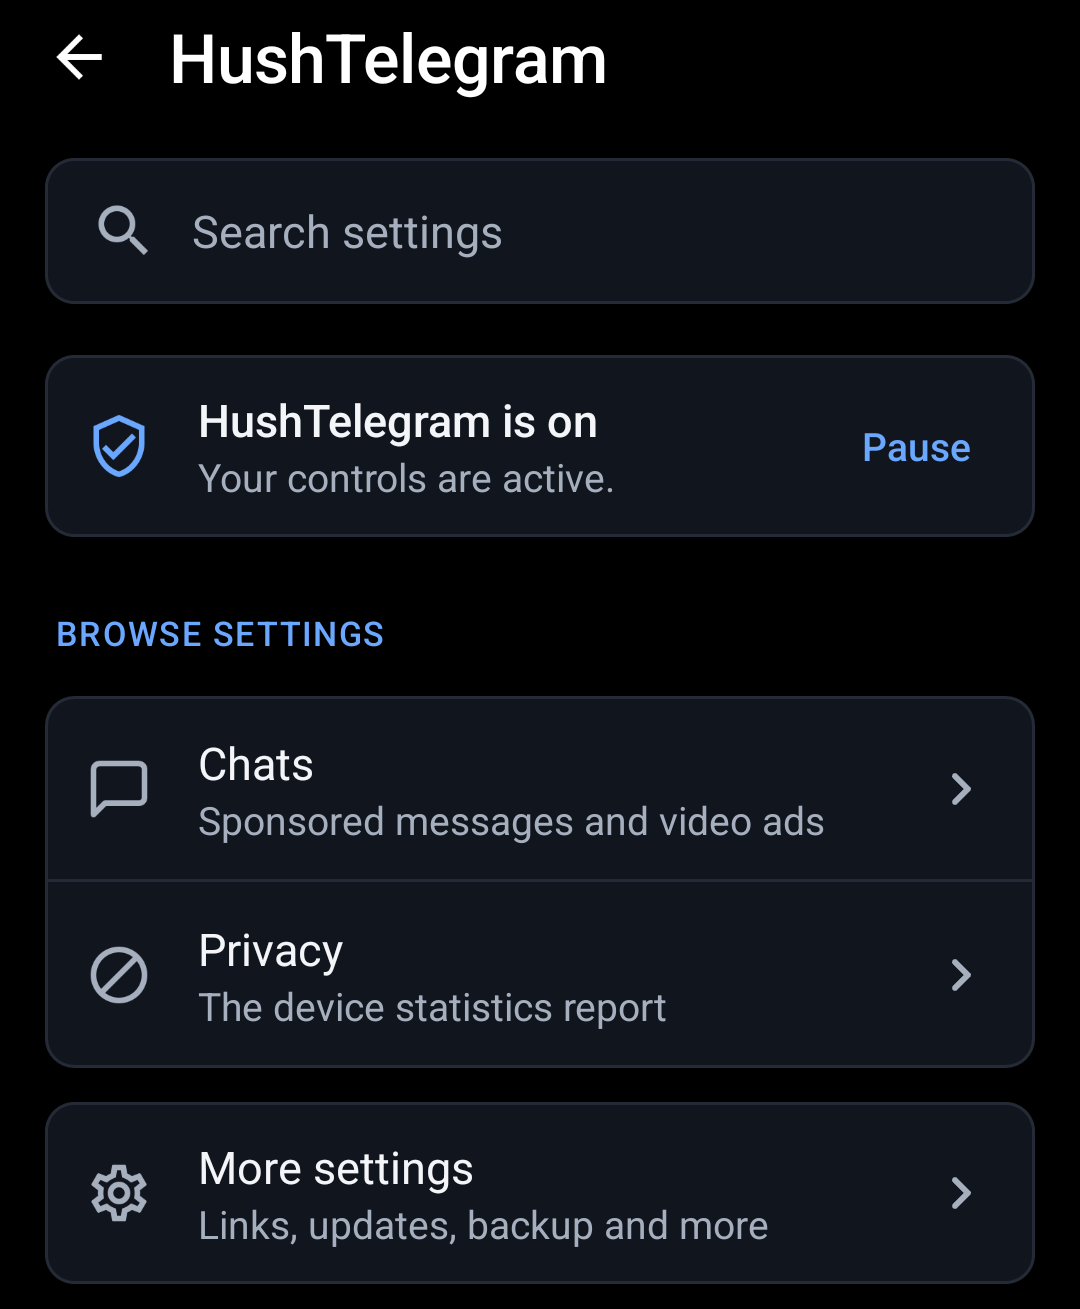
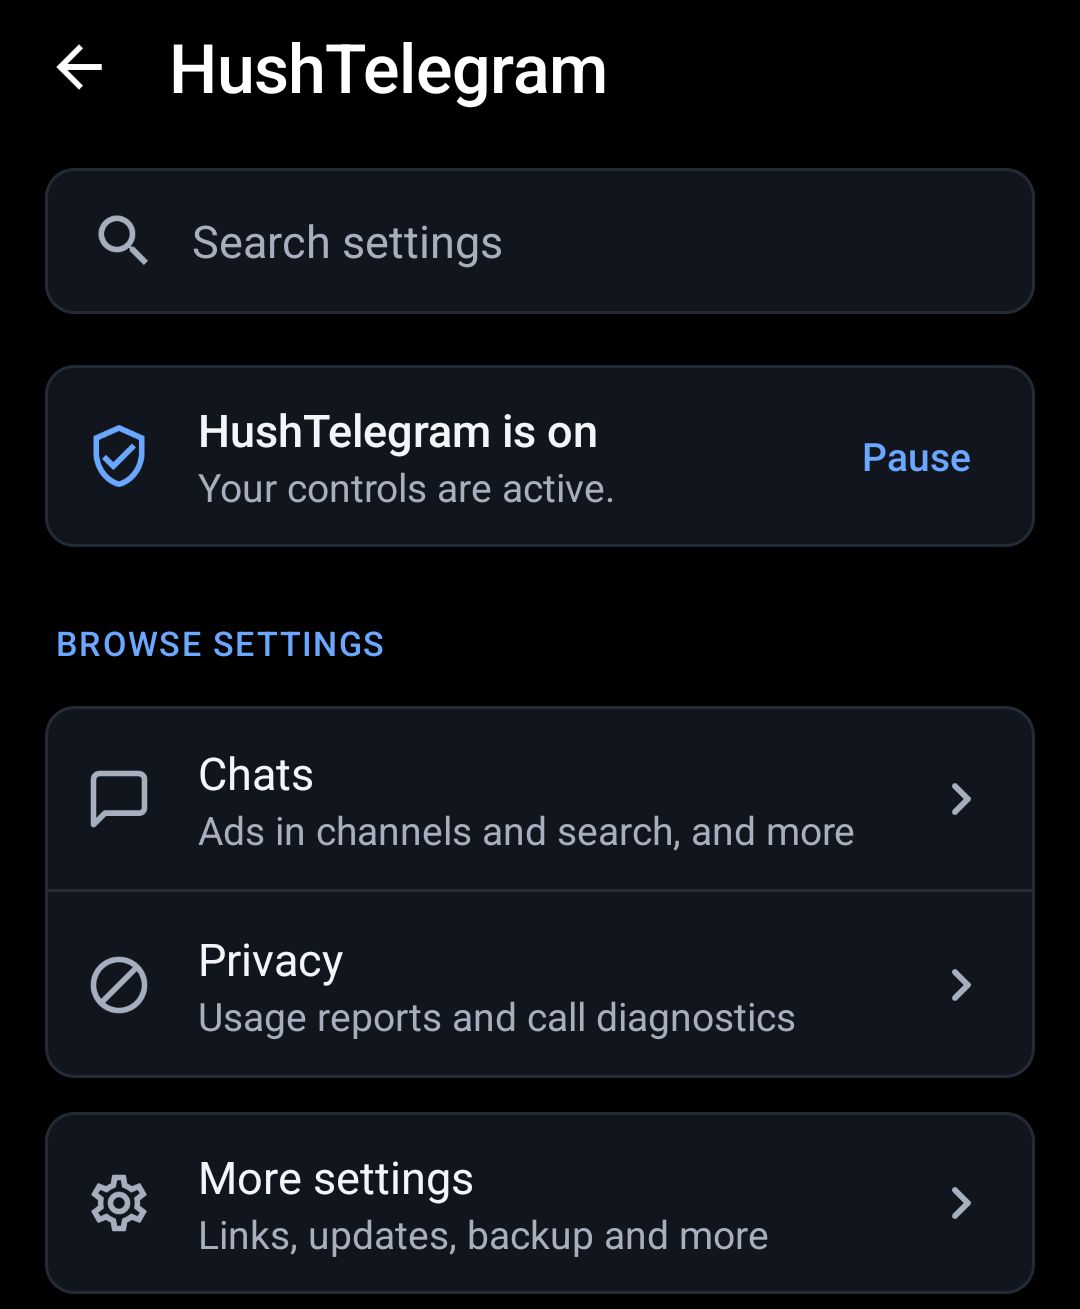
docs: recapture the settings screenshots from the current build
The home summaries changed and the Chats page now groups its switches,
so the saved images no longer matched what the app shows. Both were
taken on a physical phone in AMOLED dark at normal text.

diff --git a/CHANGELOG.md b/CHANGELOG.md
@@ -11,6 +11,7 @@ Prepared for the next release. The published version is still 0.0.4.
 * **Tooling:** Sponsored-proxy patching rejects empty runtime hooks and methods with too few parameter registers before changing the APK.
 * **Tooling:** Open links externally and Strip link tracking refuse an empty, payload-only or undersized link runtime method before they edit Telegram or switch anything on.
 * **Tooling:** The README's sign-in help explains Telegram's `API_ID_PUBLISHED_FLOOD` refusal and the need for registered API credentials.
+* **Tooling:** The README's settings screenshots show the new home summaries and the Chats page with Hide ads and Hide Stories, captured from the current build.
 
 * **Tooling:** Premium report patching now refuses any path that changes the verified payload or request before editing.
 

diff --git a/README.md b/README.md
@@ -84,7 +84,7 @@ The same search on the same phone, first with Hide ads off, then on. Telegram pi
 
 Long-press the Telegram icon and tap HushTelegram. You can also open Telegram's App info page and tap Additional settings in the app, which Samsung phones call Configure in Telegram.
 
-<p><img src="assets/settings-overview.png" width="320" alt="HushTelegram settings with search, Pause and the Chats and Privacy pages"><img src="assets/settings-chats.png" width="320" alt="The Chats page with the Hide ads switch turned on"></p>
+<p><img src="assets/settings-overview.png" width="320" alt="HushTelegram settings with search, Pause and the Chats and Privacy pages"><img src="assets/settings-chats.png" width="320" alt="The Chats page with Hide ads and Hide Stories turned on"></p>
 
 ## Notifications on a patched Telegram
 
